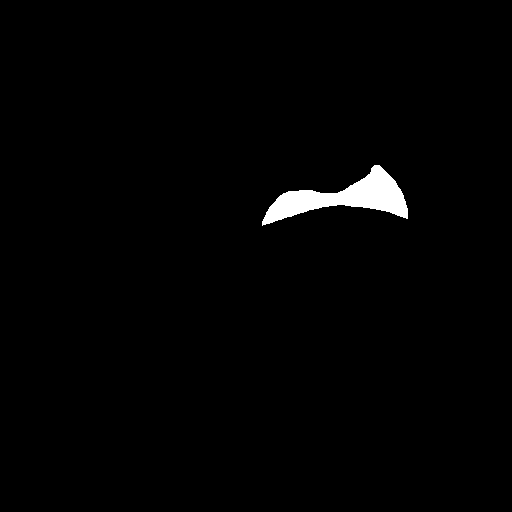
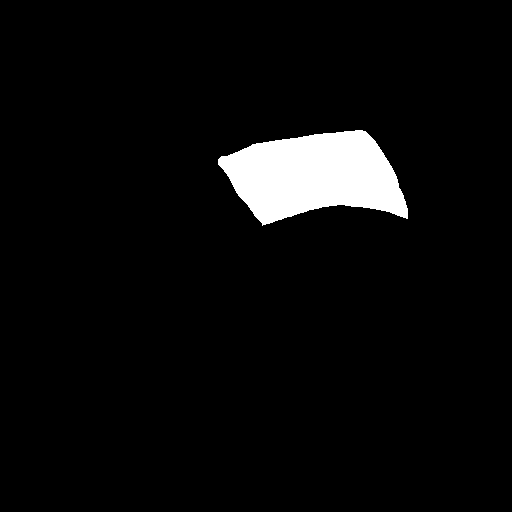
feat: fin direction available for training

Changed region(s): [[0.4062, 0.25, 0.7812, 0.4375]]

diff --git a/examples/tutorial/ian_fish_fin_mesh.py b/examples/tutorial/ian_fish_fin_mesh.py
@@ -39,7 +39,7 @@ class FishFinMesh:
                  scheduler_step_size = 20, scheduler_gamma = 0.5,
                  uv_lr = 5e-1, dir_lr = 5e-1,
                  start_uv = [0, 1], end_uv = [1, 1], 
-                 start_dir = [90], end_dir = [90], 
+                 start_dir = [0], end_dir = [0], 
                  ):
         
         self.key_size = key_size
@@ -154,14 +154,15 @@ class FishFinMesh:
              zs.unsqueeze(1)), 1)
         
         # rotate grow_xyzs
-        # TODO...
+        rotated_grow_xyzs = self.rotate_grow_xyzs(grow_xyzs)
+
 
         # vertices
         self.vertices = torch.zeros((0, 3), dtype=torch.float, device='cuda',
                                 requires_grad=True)
         # for each column
         for idx, root in enumerate(root_xyzs):
-            new_vertices = ian_utils.torch_linspace(root, root + grow_xyzs[idx], lod_y)
+            new_vertices = ian_utils.torch_linspace(root, root + rotated_grow_xyzs[idx], lod_y)
             self.vertices = torch.cat((self.vertices, new_vertices), 0)
 
         self.vertices = self.vertices.unsqueeze(0)
@@ -199,3 +200,20 @@ class FishFinMesh:
         # face_uvs
         self.face_uvs = kal.ops.mesh.index_vertices_by_faces(self.uvs, self.face_uvs_idx).detach()
         self.face_uvs.requires_grad = False
+    
+    def rotate_grow_xyzs(self, grow_xyzs: torch.Tensor):
+        rotated_grow_xyzs = torch.zeros((0, 3), dtype=grow_xyzs.dtype, device=grow_xyzs.device,
+                                requires_grad=True)
+        # angles
+        rotate_dirs = ian_utils.torch_linspace(self.start_dir, self.end_dir, grow_xyzs.shape[0])
+
+        # for each column
+        for idx, grow_xyz in enumerate(grow_xyzs):
+            angle = rotate_dirs[idx]
+            x = grow_xyz[0] * torch.cos(angle) - grow_xyz[1] * torch.sin(angle)
+            y = grow_xyz[0] * torch.sin(angle) + grow_xyz[1] * torch.cos(angle)
+            z = grow_xyz[2] * torch.ones(1, dtype=grow_xyzs.dtype, device=grow_xyzs.device)
+            rotated_xyz = torch.stack((x, y, z), -1)
+            rotated_grow_xyzs = torch.cat((rotated_grow_xyzs, rotated_xyz), 0)
+
+        return rotated_grow_xyzs

diff --git a/examples/tutorial/ian_fish_optimizer.py b/examples/tutorial/ian_fish_optimizer.py
@@ -28,7 +28,7 @@ def train_mesh():
     # Hyperparameters
     image_weight = 0
     alpha_weight = 100
-    negative_ys_weight = 1 # this will cause explosion!
+    negative_ys_weight = 2 # this will cause explosion!
     y_lr = 5e-2
     t_lr = 5e-2
     scheduler_step_size = 20
@@ -43,15 +43,15 @@ def train_mesh():
 
     # fin
     # fin_uv_lr = 0
-    fin_dir_lr = 0
-    fin_uv_lr = 5e-3
+    fin_dir_lr = 5e-2
+    fin_uv_lr = 5e-2
     # fin_dir_lr = 5e-2
-    fin_start_train_epoch = 200
-    fin_uv_bound_weight = 1
+    fin_start_train_epoch = 100
+    fin_uv_bound_weight = 100
 
     # parameters
     rendered_path_single = "./resources/rendered_goldfish/"
-    num_epoch = 400
+    num_epoch = 200
     visualize_epoch_interval = 10
     key_size = 20
     lod_x = 40
@@ -185,7 +185,7 @@ def train_mesh():
             loss.backward()
 
             train_spline = True if epoch >= spline_start_train_epoch else False
-            fish_fin_mesh.step(False)
+            fish_fin_mesh.step(train_spline)
 
         print(f"Epoch {epoch} - loss: {float(loss)}")
 
@@ -205,6 +205,8 @@ def visualize_results(fish_body_mesh:ian_fish_body_mesh.FishBodyMesh, fish_fin_m
     if (fish_fin_mesh is not None):
         print(f"fish_fin_mesh.start_uv = {fish_fin_mesh.start_uv}")
         print(f"fish_fin_mesh.end_uv = {fish_fin_mesh.end_uv}")
+        print(f"fish_fin_mesh.start_dir = {fish_fin_mesh.start_dir}")
+        print(f"fish_fin_mesh.end_dir = {fish_fin_mesh.end_dir}")
 
 
     rendered_image = None
